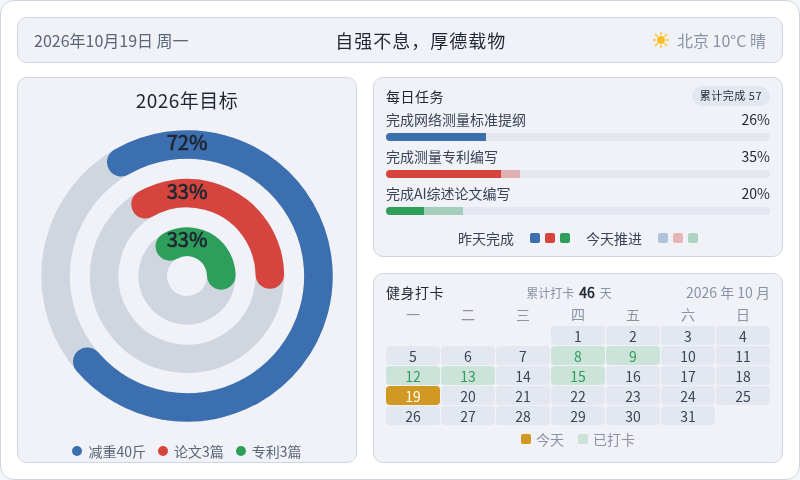
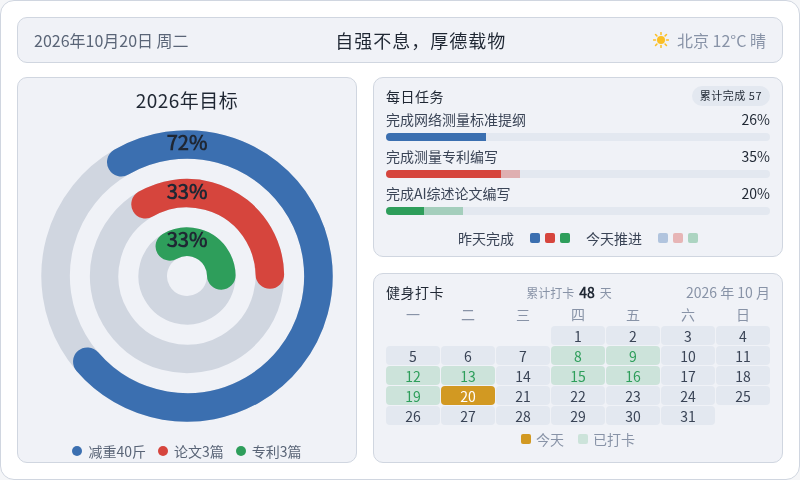
chore: 每日看板刷新 2026-10-20

diff --git a/output/dashboard/dashboard.html b/output/dashboard/dashboard.html
@@ -185,11 +185,11 @@
 <body>
   <div class="dash">
     <div class="topbar">
-      <div class="tb-date" id="tbDate">2026年10月19日 周一</div>
+      <div class="tb-date" id="tbDate">2026年10月20日 周二</div>
       <div class="tb-slogan">自强不息，厚德载物</div>
       <div class="tb-weather">
         <svg width="16" height="16" viewBox="0 0 16 16" aria-hidden="true"><circle cx="8" cy="8" r="4" fill="#fbbf24"/><g stroke="#fbbf24" stroke-width="1.5" stroke-linecap="round"><line x1="8" y1="0.5" x2="8" y2="2.5"/><line x1="8" y1="13.5" x2="8" y2="15.5"/><line x1="0.5" y1="8" x2="2.5" y2="8"/><line x1="13.5" y1="8" x2="15.5" y2="8"/><line x1="2.5" y1="2.5" x2="3.9" y2="3.9"/><line x1="12.1" y1="12.1" x2="13.5" y2="13.5"/><line x1="13.5" y1="2.5" x2="12.1" y2="3.9"/><line x1="3.9" y1="12.1" x2="2.5" y2="13.5"/></g></svg>
-        <span>北京 10°C 晴</span>
+        <span>北京 12°C 晴</span>
       </div>
     </div>
     <div class="content">
@@ -242,13 +242,13 @@
           <span class="panel-title" style="margin:0;color:#1f2733">健身打卡</span>
           <span class="cal-stats">
             <span class="cal-stats-label">累计打卡</span>
-            <span class="cal-stats-num" style="color:#1f2733">46</span>
+            <span class="cal-stats-num" style="color:#1f2733">48</span>
             <span class="cal-stats-label">天</span>
           </span>
           <span class="cal-date">2026 年 10 月</span>
         </div>
         <div class="cal-grid wk"><span>一</span><span>二</span><span>三</span><span>四</span><span>五</span><span>六</span><span>日</span></div>
-        <div class="cal-grid"><span class="cell empty"></span><span class="cell empty"></span><span class="cell empty"></span><span class="cell" style="background:#e3e8f0;color:#3a4456">1</span><span class="cell" style="background:#e3e8f0;color:#3a4456">2</span><span class="cell" style="background:#e3e8f0;color:#3a4456">3</span><span class="cell" style="background:#e3e8f0;color:#3a4456">4</span><span class="cell" style="background:#e3e8f0;color:#3a4456">5</span><span class="cell" style="background:#e3e8f0;color:#3a4456">6</span><span class="cell" style="background:#e3e8f0;color:#3a4456">7</span><span class="cell done" style="background:rgba(46,158,91,0.18);color:#2e9e5b">8</span><span class="cell done" style="background:rgba(46,158,91,0.18);color:#2e9e5b">9</span><span class="cell" style="background:#e3e8f0;color:#3a4456">10</span><span class="cell" style="background:#e3e8f0;color:#3a4456">11</span><span class="cell done" style="background:rgba(46,158,91,0.18);color:#2e9e5b">12</span><span class="cell done" style="background:rgba(46,158,91,0.18);color:#2e9e5b">13</span><span class="cell" style="background:#e3e8f0;color:#3a4456">14</span><span class="cell done" style="background:rgba(46,158,91,0.18);color:#2e9e5b">15</span><span class="cell" style="background:#e3e8f0;color:#3a4456">16</span><span class="cell" style="background:#e3e8f0;color:#3a4456">17</span><span class="cell" style="background:#e3e8f0;color:#3a4456">18</span><span class="cell today" style="background:#d29922;color:#ffffff">19</span><span class="cell" style="background:#e3e8f0;color:#3a4456">20</span><span class="cell" style="background:#e3e8f0;color:#3a4456">21</span><span class="cell" style="background:#e3e8f0;color:#3a4456">22</span><span class="cell" style="background:#e3e8f0;color:#3a4456">23</span><span class="cell" style="background:#e3e8f0;color:#3a4456">24</span><span class="cell" style="background:#e3e8f0;color:#3a4456">25</span><span class="cell" style="background:#e3e8f0;color:#3a4456">26</span><span class="cell" style="background:#e3e8f0;color:#3a4456">27</span><span class="cell" style="background:#e3e8f0;color:#3a4456">28</span><span class="cell" style="background:#e3e8f0;color:#3a4456">29</span><span class="cell" style="background:#e3e8f0;color:#3a4456">30</span><span class="cell" style="background:#e3e8f0;color:#3a4456">31</span></div>
+        <div class="cal-grid"><span class="cell empty"></span><span class="cell empty"></span><span class="cell empty"></span><span class="cell" style="background:#e3e8f0;color:#3a4456">1</span><span class="cell" style="background:#e3e8f0;color:#3a4456">2</span><span class="cell" style="background:#e3e8f0;color:#3a4456">3</span><span class="cell" style="background:#e3e8f0;color:#3a4456">4</span><span class="cell" style="background:#e3e8f0;color:#3a4456">5</span><span class="cell" style="background:#e3e8f0;color:#3a4456">6</span><span class="cell" style="background:#e3e8f0;color:#3a4456">7</span><span class="cell done" style="background:rgba(46,158,91,0.18);color:#2e9e5b">8</span><span class="cell done" style="background:rgba(46,158,91,0.18);color:#2e9e5b">9</span><span class="cell" style="background:#e3e8f0;color:#3a4456">10</span><span class="cell" style="background:#e3e8f0;color:#3a4456">11</span><span class="cell done" style="background:rgba(46,158,91,0.18);color:#2e9e5b">12</span><span class="cell done" style="background:rgba(46,158,91,0.18);color:#2e9e5b">13</span><span class="cell" style="background:#e3e8f0;color:#3a4456">14</span><span class="cell done" style="background:rgba(46,158,91,0.18);color:#2e9e5b">15</span><span class="cell done" style="background:rgba(46,158,91,0.18);color:#2e9e5b">16</span><span class="cell" style="background:#e3e8f0;color:#3a4456">17</span><span class="cell" style="background:#e3e8f0;color:#3a4456">18</span><span class="cell done" style="background:rgba(46,158,91,0.18);color:#2e9e5b">19</span><span class="cell today" style="background:#d29922;color:#ffffff">20</span><span class="cell" style="background:#e3e8f0;color:#3a4456">21</span><span class="cell" style="background:#e3e8f0;color:#3a4456">22</span><span class="cell" style="background:#e3e8f0;color:#3a4456">23</span><span class="cell" style="background:#e3e8f0;color:#3a4456">24</span><span class="cell" style="background:#e3e8f0;color:#3a4456">25</span><span class="cell" style="background:#e3e8f0;color:#3a4456">26</span><span class="cell" style="background:#e3e8f0;color:#3a4456">27</span><span class="cell" style="background:#e3e8f0;color:#3a4456">28</span><span class="cell" style="background:#e3e8f0;color:#3a4456">29</span><span class="cell" style="background:#e3e8f0;color:#3a4456">30</span><span class="cell" style="background:#e3e8f0;color:#3a4456">31</span></div>
         <div class="cal-legend">
           <span style="color:#8893a7"><i class="sw" style="background:#d29922"></i>今天</span>
           <span style="color:#8893a7"><i class="sw" style="background:rgba(46,158,91,0.18)"></i>已打卡</span>
